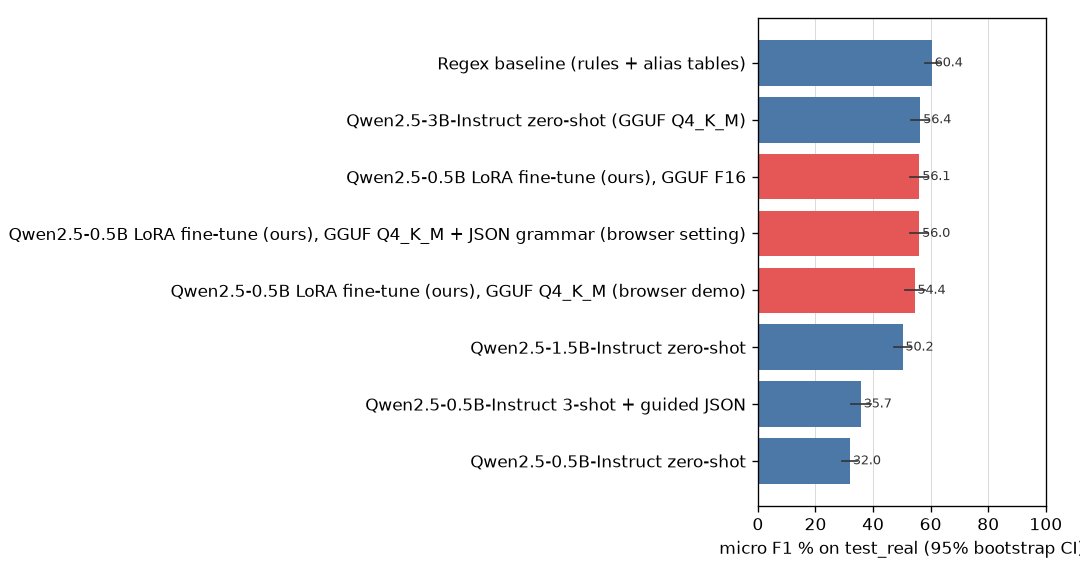
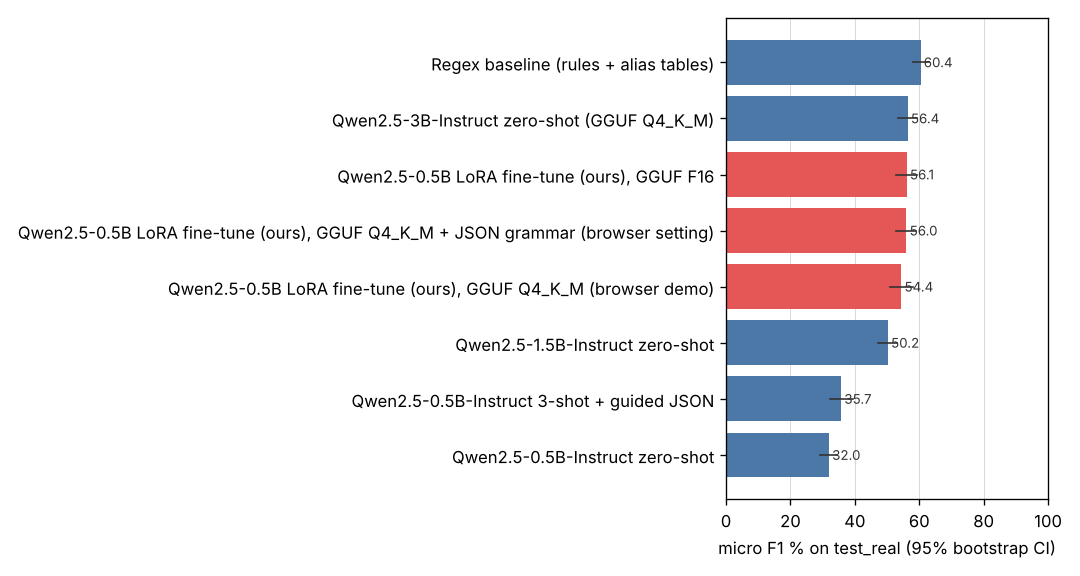
Grammar decoding: cap skills (30) and locations (10) to stop repetition loops
With the JSON-schema grammar, 5 of 130 real postings still produced invalid JSON: the Q4_K_M model
repeated one list item ('sap fico', 'sap fico', ...) until the 384-token limit. maxItems in the
decoding schema (API, llama-server runs, browser demo) ends such lists; the largest gold lists are 19
skills and 5 locations.

Changed region(s): [[0.0, 0.0312, 1.0, 0.9688]]

diff --git a/src/jobx/baselines/guided.py b/src/jobx/baselines/guided.py
@@ -55,11 +55,26 @@ def require_all(schema: dict[str, Any]) -> dict[str, Any]:
     return result
 
 
+# Decoding-only caps on list lengths. Without them a greedy 0.5B model can loop on one list item ("sap fico",
+# "sap fico", ...) until the token limit and the JSON is never closed (5 of 130 real postings in the first
+# test_real run). The largest gold lists are 19 skills and 5 locations, so the caps never cut a correct answer.
+LIST_CAPS: dict[str, int] = {"skills": 30, "locations": 10}
+
+
+def cap_lists(schema: dict[str, Any], caps: dict[str, int] | None = None) -> dict[str, Any]:
+    out = copy.deepcopy(schema)
+    for name, n in (caps or LIST_CAPS).items():
+        prop = out.get("properties", {}).get(name)
+        if isinstance(prop, dict) and prop.get("type") == "array":
+            prop["maxItems"] = n
+    return out
+
+
 def guided_schema() -> dict[str, Any]:
-    """The schema every constrained decoder uses: JobPosting, refs inlined, all keys required."""
+    """The schema every constrained decoder uses: JobPosting, refs inlined, all keys required, list caps."""
     from jobx.schema import json_schema
 
-    return require_all(inline_refs(json_schema()))
+    return cap_lists(require_all(inline_refs(json_schema())))
 
 
 def build_transformers_prefix_fn(tokenizer: Any, schema: dict[str, Any]) -> Callable[..., Any]:
@@ -71,4 +86,4 @@ def build_transformers_prefix_fn(tokenizer: Any, schema: dict[str, Any]) -> Call
 
 
 def llama_cpp_response_format(schema: dict[str, Any]) -> dict[str, Any]:
-    return {"type": "json_object", "schema": require_all(inline_refs(schema))}
+    return {"type": "json_object", "schema": cap_lists(require_all(inline_refs(schema)))}

diff --git a/tests/test_misc.py b/tests/test_misc.py
@@ -102,3 +102,25 @@ def test_verify_cli_flow(tmp_path):
     # resume: nothing left to do
     meta2 = verify(drafts, out, input_fn=lambda _: "q", console=Console(quiet=True))
     assert meta2["n"] == 2
+
+
+def test_guided_schema_caps_list_lengths_above_any_gold_list():
+    import json as _json
+    from pathlib import Path as _P
+
+    from jobx.baselines.guided import LIST_CAPS, guided_schema, llama_cpp_response_format
+    from jobx.schema import json_schema
+
+    g = guided_schema()
+    assert g["properties"]["skills"]["maxItems"] == LIST_CAPS["skills"]
+    assert (
+        llama_cpp_response_format(json_schema())["schema"]["properties"]["locations"]["maxItems"]
+        == LIST_CAPS["locations"]
+    )
+    rows = [
+        _json.loads(x)
+        for f in ("data/processed/train.jsonl", "data/real/test_real.jsonl")
+        for x in _P(f).read_text().splitlines()
+    ]
+    assert max(len(r["label"]["skills"]) for r in rows) < LIST_CAPS["skills"]
+    assert max(len(r["label"]["locations"]) for r in rows) < LIST_CAPS["locations"]
